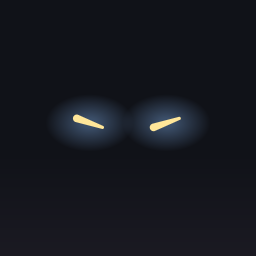
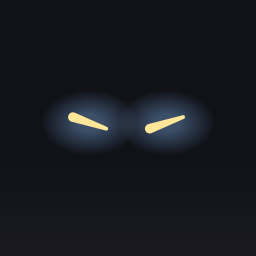
W19 탱크 눈 조금 크게 (가림형 눈 빛 점·> <·가는 눈), README: 히어로 비율 규격 (HERO 뼈 자리·회전만 옮김·root_k·vm_snap·방패 pos), 얼굴 노출형·가림형, 비용 표 갱신

Changed region(s): [[0.25, 0.4375, 0.4375, 0.5312], [0.5625, 0.4375, 0.7188, 0.5312]]

diff --git a/tools/blender/face_paint.py b/tools/blender/face_paint.py
@@ -187,17 +187,17 @@ def paint_visor(kind, n=256, eye_x=0.3, eye_y=0.04):
     c.put(np.clip((-c.y - 0.2) / 0.8, 0, 1), np.array([0.13, 0.12, 0.16]), 0.6)
     for s in (-1, 1):
         ex, ey = s * eye_x, eye_y
-        halo = c.ellipse(ex, ey, 0.2, 0.13)
+        halo = c.ellipse(ex, ey, 0.24, 0.16)
         c.put(c.cov(halo, soft=24), EYE_HALO, 0.35)
         if kind == "idle":
-            d = c.ellipse(ex, ey, 0.085, 0.055)
+            d = c.ellipse(ex, ey, 0.115, 0.075)
             c.put(c.cov(d, soft=2), EYE_GLOW)
         elif kind == "hit":
-            pts = [(ex + s * 0.07, ey + 0.06), (ex - s * 0.07, ey), (ex + s * 0.07, ey - 0.06)]
-            c.put(c.cov(c.stroke(pts, 0.035)), EYE_GLOW)
+            pts = [(ex + s * 0.09, ey + 0.08), (ex - s * 0.09, ey), (ex + s * 0.09, ey - 0.08)]
+            c.put(c.cov(c.stroke(pts, 0.045)), EYE_GLOW)
         else:  # 기합: 안쪽 끝이 내려간 가는 눈
-            pts = [(ex - s * 0.1, ey - 0.035), (ex + s * 0.1, ey + 0.035)]
-            c.put(c.cov(c.stroke_taper(pts if s > 0 else pts[::-1], 0.06, 0.025)), np.array([1.0, 0.9, 0.6]))
+            pts = [(ex - s * 0.13, ey - 0.045), (ex + s * 0.13, ey + 0.045)]
+            c.put(c.cov(c.stroke_taper(pts if s > 0 else pts[::-1], 0.075, 0.03)), np.array([1.0, 0.9, 0.6]))
     out = np.ones((n, n, 4))
     out[..., :3] = np.clip(c.img, 0, 1)
     return out

diff --git a/tools/blender/README.md b/tools/blender/README.md
@@ -1,7 +1,9 @@
 # Blender 캐릭터 제작 파이프라인 (W19 — 탱크 시험 제작, 고퀄 스타일화 판)
 
 재혁 결정 (B 방식): 캐릭터 모델은 Blender 를 스크립트로 돌려 우리 규격으로 직접 만듦.
-화풍 목표 (2026-11-05 재혁): "로우폴리가 아닌 실제 고퀄 게임처럼, 느낌은 스매시 레전드 정도" — 치비 비율, 매끈한 곡면, 2차 디테일 (리벳·금 테·벨트·별), 손칠 느낌 텍스처, 큰 반짝이는 눈·표정, 얇은 외곽선.
+화풍 목표 (2026-11-05 재혁 확정): 로우폴리가 아닌 상용 고퀄 스타일화 (스매시 레전드·오버워치 급), **히어로 비율 (6~7등신 어른 전투원 — 치비 아님)**,
+매끈한 곡면 + 단단한 갑옷, 2차 디테일 (리벳·금 테·벨트·띠), 구운 텍스처, 얇은 외곽선, 부분 틴트. 얼굴은 캐릭터에 따라 노출형 / 가림형 (탱크 = 가림형: 투구 안 작은 눈).
+미리보기 그림 (재혁 확인용, 커밋): `preview/tank_2026-11-05.png` (정면·3/4·옆·뒤 / 얼굴 둘·자세 둘).
 이번엔 탱크 1명. 통과하면 나머지 7명을 같은 방식으로 (따로 작업).
 
 ## 1. 무엇이 어디에
@@ -41,15 +43,15 @@ xvfb-run -a -s "-screen 0 1280x720x24" <godot> --resolution 1280x720 --path godo
 | 항목 | 규격 |
 | --- | --- |
 | 좌표 | 부품은 게임 좌표 (앞 +x, 왼쪽 +y, 위 +z, m, 발바닥 0). Blender 로는 (X, Y, Z) = (y, −x, z), glTF 앞 +Z |
-| 비율 | 관절 자리 = `ref/<id>_rig.json` (우리 몸 쉬는 자세 — 바꾸지 않음). 치비는 **메시만** 키움 (탱크 머리 반지름 0.26~0.29 m, 목 관절 위 0.27 m 가운데) |
+| 비율 | **히어로 비율**: 뼈 자리를 `chars/<id>.py` `HERO` 로 새로 정함 (탱크: 골반 0.93·어깨 1.47·목 1.56 m, 깃 끝 ~2.0 m, 머리 ~0.33 m → 6등신). 쉬는 **방향** (팔 내림 각·다리 곧게) 은 우리 코드 몸 (`ref/<id>_rig.json`) 과 같게 — 고도 external.gd 는 관절 **회전** 만 옮기고 뼈 길이·자리는 모델 것 (골반 오르내림은 `root_k` = 모델 골반 / 우리 골반 배율), 그래서 다리·팔 길이가 달라도 걷기·평타·래그돌이 그대로 붙음. 1인칭 팔은 `vm_snap` (팔꿈치를 우리 팔꿈치 자리에) 로 화면 구석 자리 유지. 안쪽 몸 노드에 붙는 소품 (방패) 은 `attach.pos` 로 모델 허리 높이만큼 올림 (`_shield_pos`) |
 | 뼈 | 16개, 이름 = 우리 관절 그대로 (`hips waist torso neck shoulder_R elbow_R hand_R … foot_L`), 손가락·머리 뼈 없음 (머리 = neck). 쉬는 자세 = 우리 몸 (팔 내림) |
 | 부품 | 낮은 우리 → 서브디비전 2 (매끈). 딱딱한 것 (갑옷·투구·장갑) = 뼈 하나 100%, 굽는 것 (`blend=[뼈…]`: 옷 몸통·소매·허벅지·허리 천) = 자동 가중치 → 허락 뼈만 3개까지 |
 | LOD | 한 glb 안 메시 4 (같은 뼈·같은 UV·같은 텍스처, Decimate): **lod0 = 대기실 큰 캐릭터·초상·1인칭 팔 (≤ 4만)**, lod1 = 판 화질 높음, lod2 = 보통, lod3 = 낮음. `<id>.json` `lods` 가 화면·화질 → 메시 이름. 판 LOD 는 '8명 판 합 (몸 + 방패) ≤ 구운 몸 × 높음 2.5·보통 1.8·낮음 1.0' (탱크: 10.5k·7.2k·3.4k + 방패 1.4k) |
 | 텍스처 | 몸 알베도 아틀라스 1024² (JPEG, glb 안) = Cycles 굽기: look 색 × AO × 위쪽 빛 × 붓 얼룩 + 모서리 빛 (pointiness) + 쇠 광택 띠. 소품 512². 얼굴 512² PNG (표정마다) |
 | 재질 | 2개: `<id>` (아틀라스, 꼭짓점 색 하양) · `<id>_face` (얼굴 — 외곽선 없음, 표정 교체). 고도에서 몸 그리기 = 몸 2 (툰 + 외곽선) + 얼굴 1 + 방패 2 = 5 |
 | 몸 색 (틴트 마스크) | 둘째 UV (고도 UV2) x = 1 인 면만 플레이어 색을 **곱함** (`skin_multiply` — 굽은 그늘이 남음). 그 면은 회백 (0xeeeeee) 으로 굽힘. **몸 전체 틴트 금지** — 탱크는 깃·허리 천·방패 판만 (몸 넓이의 ~10%, 테스트 2~25%) |
-| 얼굴·눈 | 머리 덩어리 = `face=True` 부품: 앞쪽 면에 정면 평면 투영 (얼굴 칸 [-1,1] = 머리 반지름), 뒤쪽 면은 맨살 구석. 코드 몸의 눈 (addEyes) 은 외부 모델이면 안 그림. 투구·모자 얼굴창은 눈썹 위까지 열기 |
-| 표정 | `faces {idle, hit, attack}` (`face_paint.paint_face`): 경직·맞은 직후 `EXT_HIT_FACE_S` = hit (> < 눈·작은 입), 공격 동작 = attack (찡그린 눈썹·벌린 입), 나머지 idle. external.gd `expression()` |
+| 얼굴 (두 가지) | 머리 덩어리 = `face=True` 부품, 앞쪽 면에 정면 평면 투영 (얼굴 칸 [-1,1] = 머리 반지름), 뒤쪽 면은 구석 색. 코드 몸의 눈 (addEyes) 은 외부 모델이면 안 그림. **가림형** (탱크 투구·닌자 복면·광전사 마스크): 얼굴 덩어리를 어두운 안쪽 (`visor` look) 으로, 투구 껍데기에 눈 틈을 뚫고 `k.face_painter = face_paint.paint_visor` (어둠 + 작은 빛나는 눈, 256²), json `face_glow` 로 눈이 제 색으로 빛남. **노출형** (바드·사냥꾼 등 얼굴이 보이는 캐릭터): `face_paint.paint_face` (512², 눈·눈썹·입) — 히어로 비율이면 눈을 작고 어른스럽게 다시 그려야 함 |
+| 표정 | `faces {idle, hit, attack}`: 경직·맞은 직후 `EXT_HIT_FACE_S` = hit, 공격 동작 = attack, 나머지 idle (external.gd `expression()`). 가림형은 눈만 바뀜 (둥근 빛 점 / > < / 눈꼬리 올라간 가는 눈) |
 | 그림 손질 (json) | `toon_steps` [0.66, 0.84, 1.0] (칠한 그늘이 있으니 부드럽게) · `outline` 0.45 (외곽선 굵기 배율 — 얇게) · `rim` [0.35, 3] (가장자리 빛) |
 | 분리 소품 | `prop="이름"` 부품 → `<id>_<이름>.glb` (자기 아틀라스, `PROP_TRIS` 1400), json `attach` `{"glb", "ref": "shields.back"}` (안쪽 몸 소품 노드 아래 → 보이기·1인칭 쥐기는 예전 그대로) |
 | 밝기 | 몸 색 칸 뺀 넓이 평균 밝기 (텍스처 포함) ≥ 구운 몸 × 0.92 (`test_blender_tank_brightness`). 대기실·초상은 무대 흰 빛 (`portrait.gd stage_light`) |
@@ -64,9 +66,9 @@ xvfb-run -a -s "-screen 0 1280x720x24" <godot> --resolution 1280x720 --path godo
 
 ## 5. 탱크 결과 (2026-11-05)
 
-모양: 큰 머리 치비 (얼굴창 투구 + 금 이마 띠 + 볼 가리개 리벳 + 쇠 마루 + 플레이어 색 깃, 앞머리), 큰 눈 얼굴 (표정 3), 둥근 흉갑 (가운데 능선·금 별·리벳·아래·목 금 테),
-두 겹 어깨 갑옷 + 금 리벳, 누빈 크림 소매·허벅지, 팔꿈치·무릎 받이, 팔 보호대 + 금 손목 테, 가죽 장갑 손 (엄지), 가죽 벨트·금 버클·주머니, 플레이어 색 허리 천 (앞·뒤, 금 단), 쇠 치마판 두 겹,
-정강이 갑옷·가죽 장화 테·쇠 장화·밑창, 큰 둥근 방패 (플레이어 색 판 + 쇠 테 + 금 고리·돌기·별·리벳 8 + 뒤 손잡이·띠).
+모양 (히어로 비율 6등신): 닫힌 투구 (가로 눈 틈·T 바이저·얼굴 능선·이마 금 테·볼 리벳·아래 테·쇠 마루·플레이어 색 깃, 안쪽 어둠에 빛나는 작은 눈 — 표정 3),
+넓은 흉갑 (가운데 능선·금 별·리벳·금 테) + 플레이어 색 어깨띠 (금 고리), 겹친 배 가리개 3, 큰 두 겹 어깨 갑옷 (금 테·리벳), 위팔 갑옷·팔꿈치·팔 보호대·금 손목 테·가죽 장갑 + 쇠 손등,
+가죽 벨트·금 버클·주머니, 플레이어 색 허리 천 (앞·뒤, 금 단), 쇠 치마판 두 겹, 허벅지 갑옷·무릎 받이·정강이 갑옷·장화, 짙은 청회 사슬 속옷, 큰 둥근 방패 (따로).
 
 `cost.gd` (헤드리스, 판 몸 하나):
 
@@ -77,8 +79,8 @@ xvfb-run -a -s "-screen 0 1280x720x24" <godot> --resolution 1280x720 --path godo
 | 뼈 | 27 | 16 | 16 | 16 | 16 |
 | 몸 만들기 처음 / 그 뒤 | 5.8 / 0.71 ms | ~75 / 1.9 ms | | | |
 | 자세 + 뼈 맞추기 | 0.14 ms | 0.19 ms | | | |
-| 1인칭 팔 삼각형 / 그리기 | 2832 / 66 | 4034 / 2 | | | |
-| **8명 판 삼각형 (구운 대비)** | 38.7k (1.00×) | 95.2k (2.46×) | 68.8k (1.78×) | 38.4k (0.99×) | (한 명만) |
+| 1인칭 팔 삼각형 / 그리기 | 2832 / 66 | 3918 / 2 | | | |
+| **8명 판 삼각형 (구운 대비)** | 38.7k (1.00×) | 95.2k (2.46×) | 68.8k (1.78×) | 38.2k (0.99×) | (한 명만) |
 
 처음 75 ms = 판 처음 몸 하나 만들 때 한 번 (.glb·텍스처 읽기, LOD 4 표면 나누기, 1인칭 팔 메시) — 그 뒤는 1.9 ms. 이 컨테이너는 소프트웨어 렌더라 프레임 ms 는 의미 없음 → **재혁 PC F3 로 8명 판 FPS 확인** 필요.
 
@@ -89,6 +91,7 @@ xvfb-run -a -s "-screen 0 1280x720x24" <godot> --resolution 1280x720 --path godo
 - LOD 는 Decimate 라 낮은 단계 (3.4k) 에서 UV 이음매 근처 색 얼룩·각이 보임 (화질 낮음 전용)
 - 허리 천은 따로 흔들리지 않고 허벅지 가중치로 따라 휨, 깃도 고정
 - 표정은 텍스처 3장 교체만 (눈 깜빡임·입 모양 섞기 없음)
-- 얼굴은 정면 평면 투영이라 옆 (90°) 에선 눈이 길게 늘어 보일 수 있음 (투구 볼 가리개가 대부분 가림)
+- 히어로 비율은 모델 뼈 길이가 코드 몸과 달라 **판정·효과 자리 (주먹 끝·방패 앞) 와 보이는 손 자리가 조금 어긋남** (서버 판정은 그대로, 보기만), 모델이 코드 몸보다 큼 (깃 끝 2.0 m vs 1.84 m) — 이름표·카메라는 그대로
+- 방패는 안쪽 몸 허리 노드 아래 + 고정 올림 (attach pos) 이라 허리를 크게 비틀면 모델 등과 조금 뜰 수 있음
 - glb 4 LOD + 아틀라스로 tank.glb ~4 MB (웹 첫 로딩 +) — 8명이면 ~30 MB, 줄이려면 lod0 을 따로 파일로 (대기실에서만 받기) 또는 텍스처 512
 - 판 중 플레이어 색이 대기실에서 바꾼 색을 늦게 따라가는 경우 (자동 조종 `--color` 로 볼 때) — 구운 몸도 같아서 이번 범위 밖
